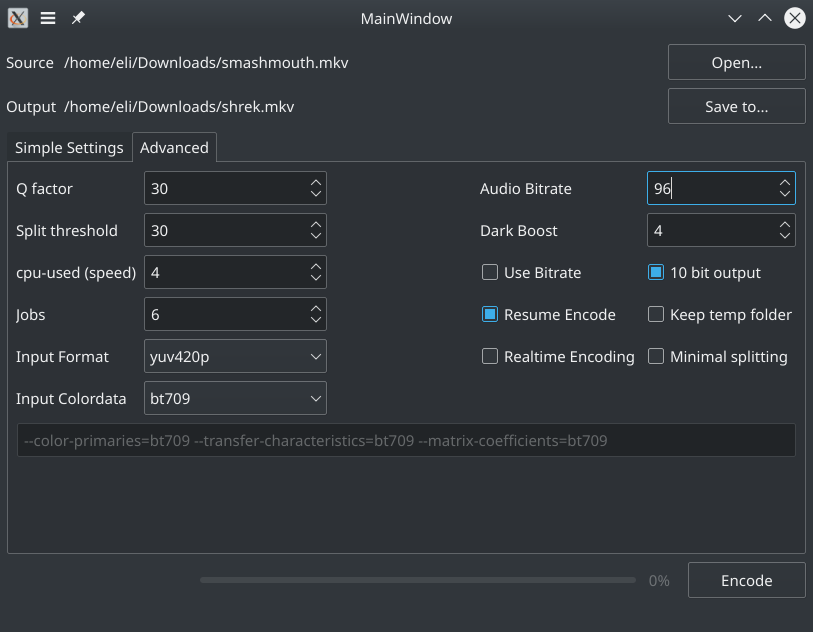
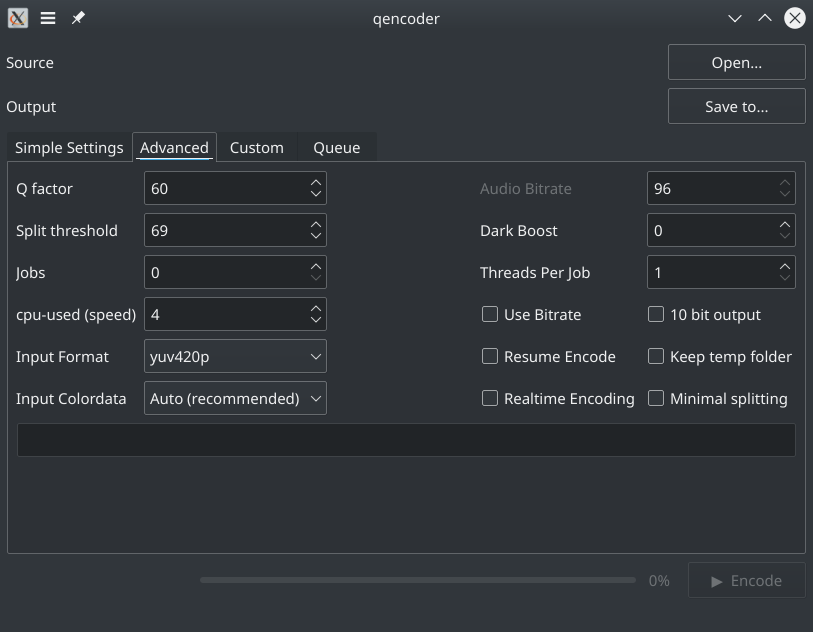
Queueing, pt 2. should finalize version 1.1

diff --git a/qencoder.py b/qencoder.py
@@ -762,6 +762,7 @@ class window(QMainWindow, Ui_qencoder):
         self.pushButton_del.setEnabled(1)
         self.listWidget.setEnabled(1)
         self.pushButton_save.setEnabled(0)
+        self.progressBar_total.setValue(0)
         print("Enabled all buttons, returning program to normal")
 
 def runProcessing(dictargs, pushButton, progressBar, statusLabel, manyjobs):
@@ -791,9 +792,14 @@ def runProcessing(dictargs, pushButton, progressBar, statusLabel, manyjobs):
 def runProcessingMany(dictList, pushButton, progressBar, statusLabel, queueLabel):
     queueLabel.setText("Encoding video 1/" + str(len(dictList)))
     for i in range(len(dictList)):
+        progressBar.setValue(0)
         runProcessing(dictList[i], pushButton, progressBar, statusLabel, True)
         queueLabel.setText("Completed encode " + str(i + 1) + "/" + str(len(dictList)))
     queueLabel.setText("Completed video queue")
+    pushButton.setEnabled(1)
+    pushButton.setStyleSheet("color: black; background-color: white")
+    pushButton.setText("Finalize")
+    statusLabel.setText("Encoding complete!")
 
 if __name__ == '__main__':
     if sys.platform.startswith('win'):

diff --git a/README.md b/README.md
@@ -19,11 +19,17 @@ It allows you to configure the colorspace of both your input and output, to ensu
 
 Finally, it supports minimal splitting, the ideal mode for 2 pass vbr encodes. This mode makes as few splits as possible, keeping them all as far apart as possible so that the bitrate stays as variable as possible.
 
+### Video queueing
+
+![Queue view](/screenshots/queue.png)
+
+qencoder is the first gui av1 encoder to support proper video queueing. Setup the perfect encode for your video and add it to a queue. Repeat for as many videos as you want to encode. When you are done, save the queue to a file for later, or run it now with the encode button. If any videos are in the queue, qencoder will encode them.
+
 ### The optimal encodes
 
 qencoder takes advantage of the most modern and advanced free formats. It defaults to av1, a video codec so efficient it can get dvd-level quality in under 700MB. It uses aomenc by default, which, with threading, is the fastest and most efficient av1 encoder.
 
-### Free videos
+### Free codecs
 
 qencoder supports free codecs that can be encoded into webm. This means your videos can be shared and played on any html5 compliant browser. It also means that you do not need to worry about licensing fees or patent violation using it.
 
